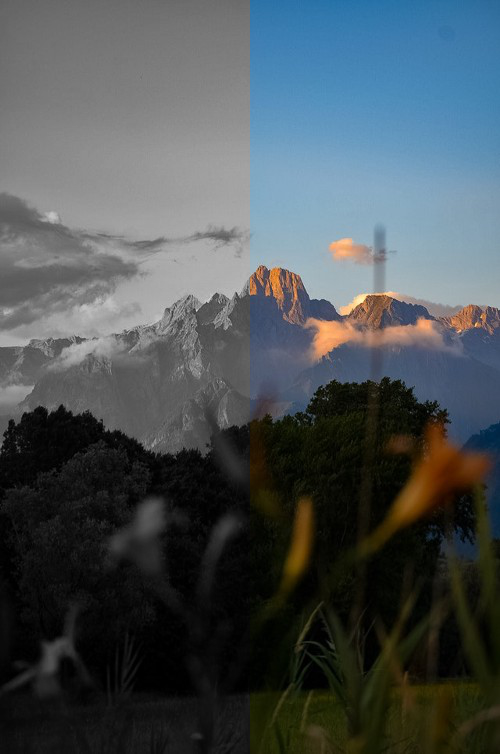
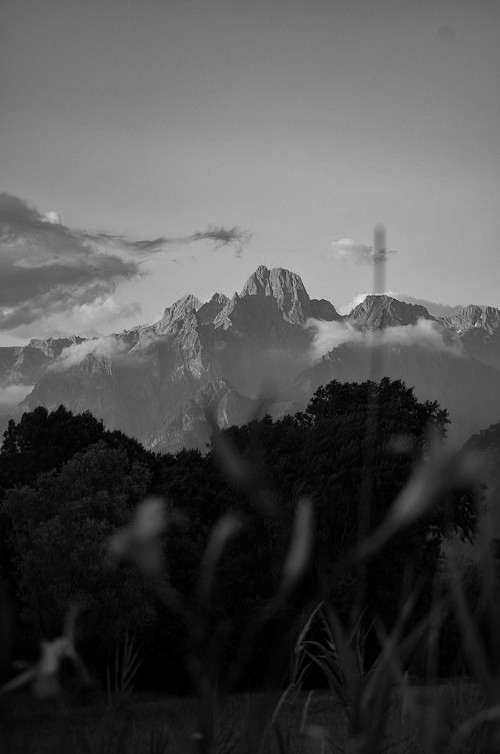
Version 1 was added

diff --git a/filtro.c b/filtro.c
@@ -38,13 +38,14 @@ int main(int argc, char *argv[]) {
 
     printf("Tamaño de la Imange %dx%d\n", imgIn.w, imgIn.h);
 
-    for(int i = 0; i < imgIn.w/2; ++i) {
+    for(int i = 0; i < imgIn.w; ++i) {
         for(int j = 0; j < imgIn.h; ++j) {
             float R = sod_img_get_pixel(imgIn, i, j, 0);
             float G = sod_img_get_pixel(imgIn, i, j, 1);
             float B = sod_img_get_pixel(imgIn, i, j, 2);
-
+            
             float mean = (R+G+B) / 3.0;
+
             sod_img_set_pixel(imgIn, i, j, 0, mean);
             sod_img_set_pixel(imgIn, i, j, 1, mean);
             sod_img_set_pixel(imgIn, i, j, 2, mean);
